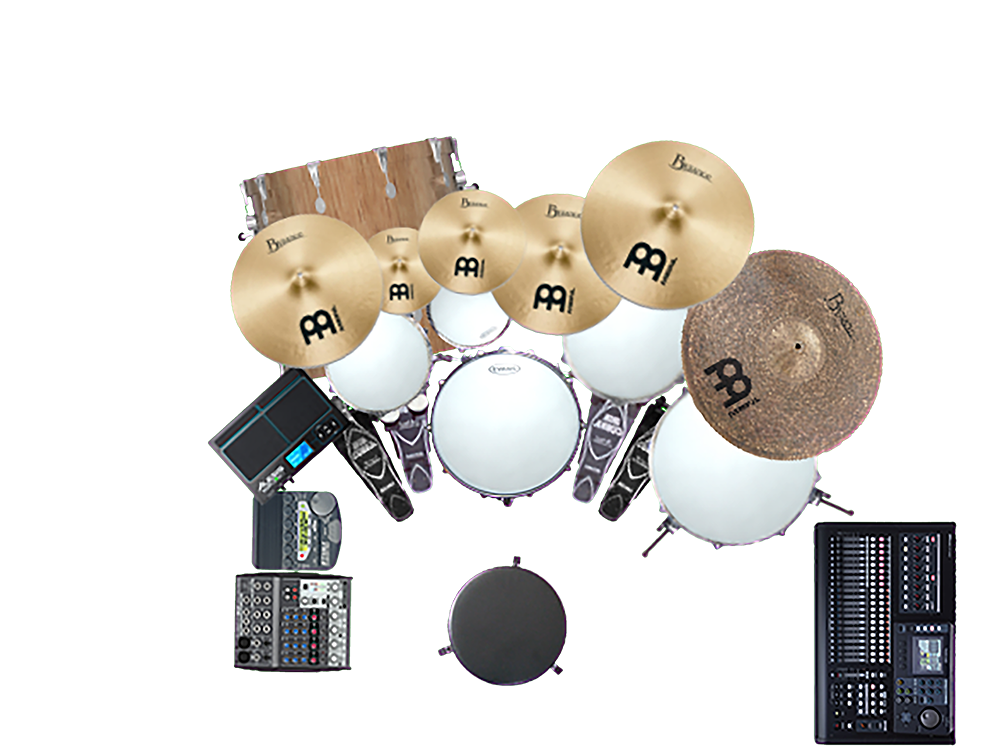
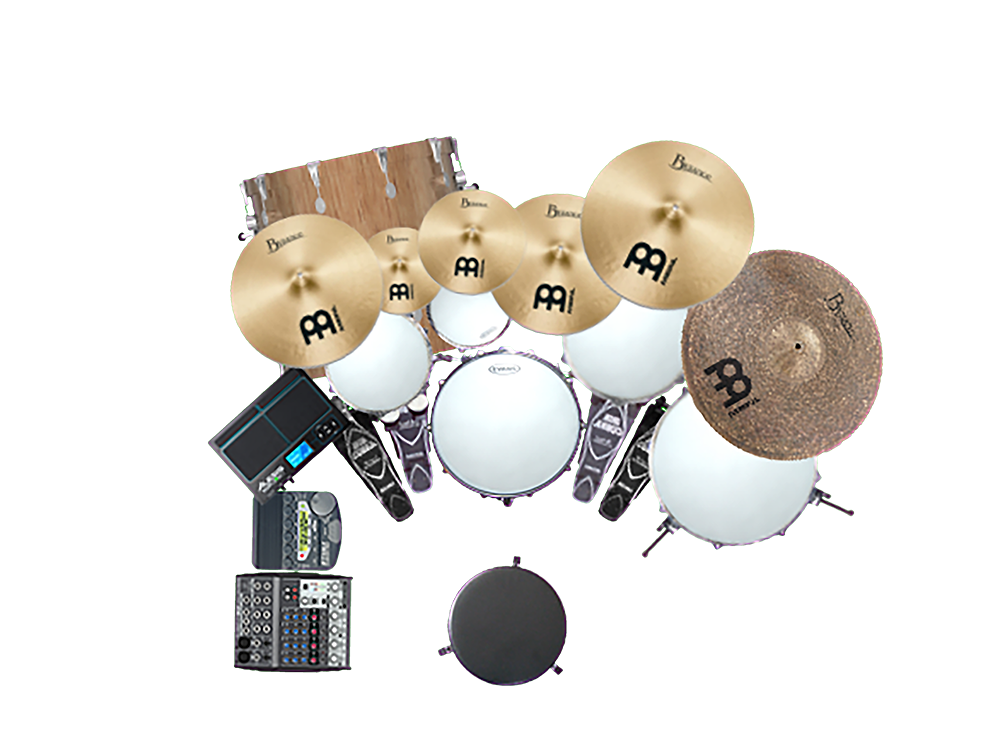
Selling the Tascam. Maybe getting the Zoom.

Changed region(s): [[0.806, 0.672, 0.961, 1.0]]

diff --git a/index.html b/index.html
@@ -78,8 +78,7 @@
         </p>
         &nbsp;&nbsp;&nbsp;Alesis Sample Pad 4 (4 Pads + 1 Kick)<br>
         &nbsp;&nbsp;&nbsp;Tama RW105 (Click)<br>
-        &nbsp;&nbsp;&nbsp;Behringer Xenyx 802 (Monitoring)<br>
-        &nbsp;&nbsp;&nbsp;Tascam DP-24 SD (8-Track Recorder)
+        &nbsp;&nbsp;&nbsp;Behringer Xenyx 802 (Monitoring)
       </article-drums>
 
       <article-bass id="article-bass" class="article">
